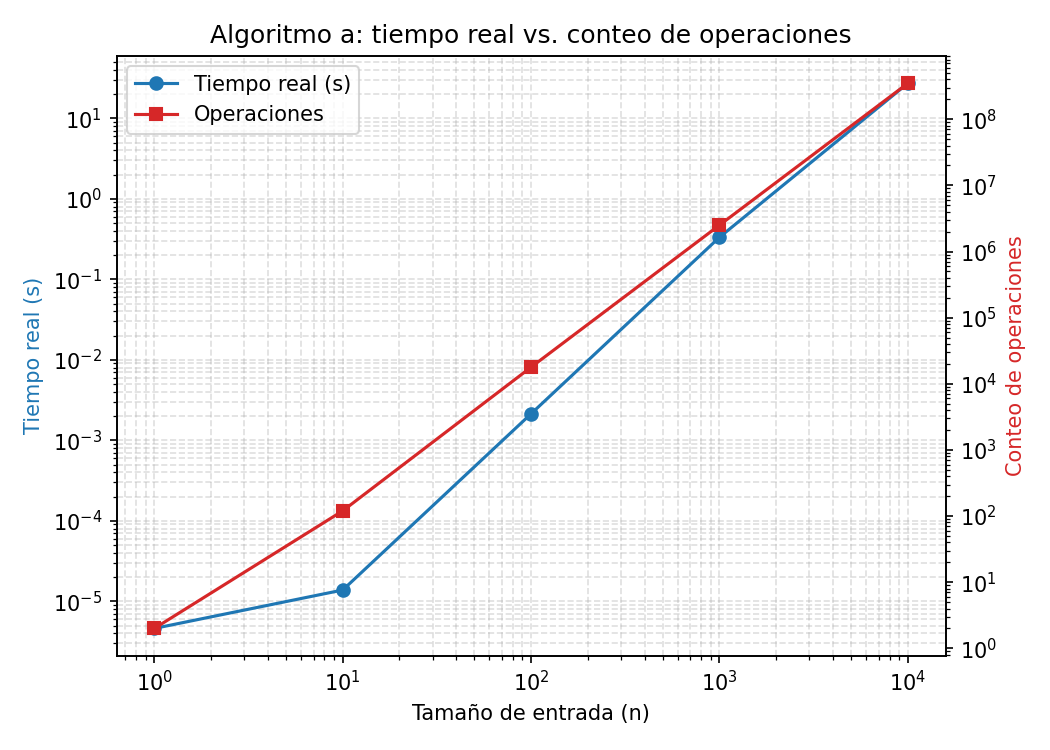
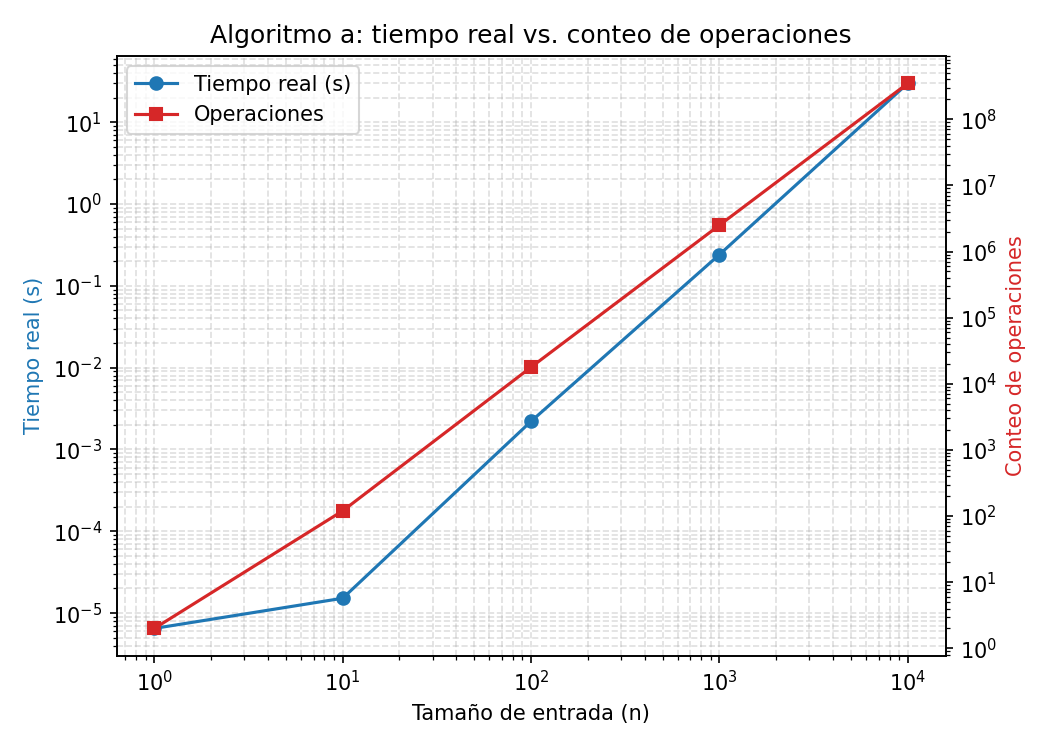
Video

Changed region(s): [[0.061, 0.0613, 0.9143, 0.8587]]

diff --git a/README.md b/README.md
@@ -2,6 +2,10 @@
 
 ## Profiling de los tres algoritmos del ejercicio 1.
 
+## Video
+
+Video explicativo del laboratorio: [https://youtu.be/kp5kk3RlpMA](https://youtu.be/kp5kk3RlpMA)
+
 ## Instalación
 
 ```
